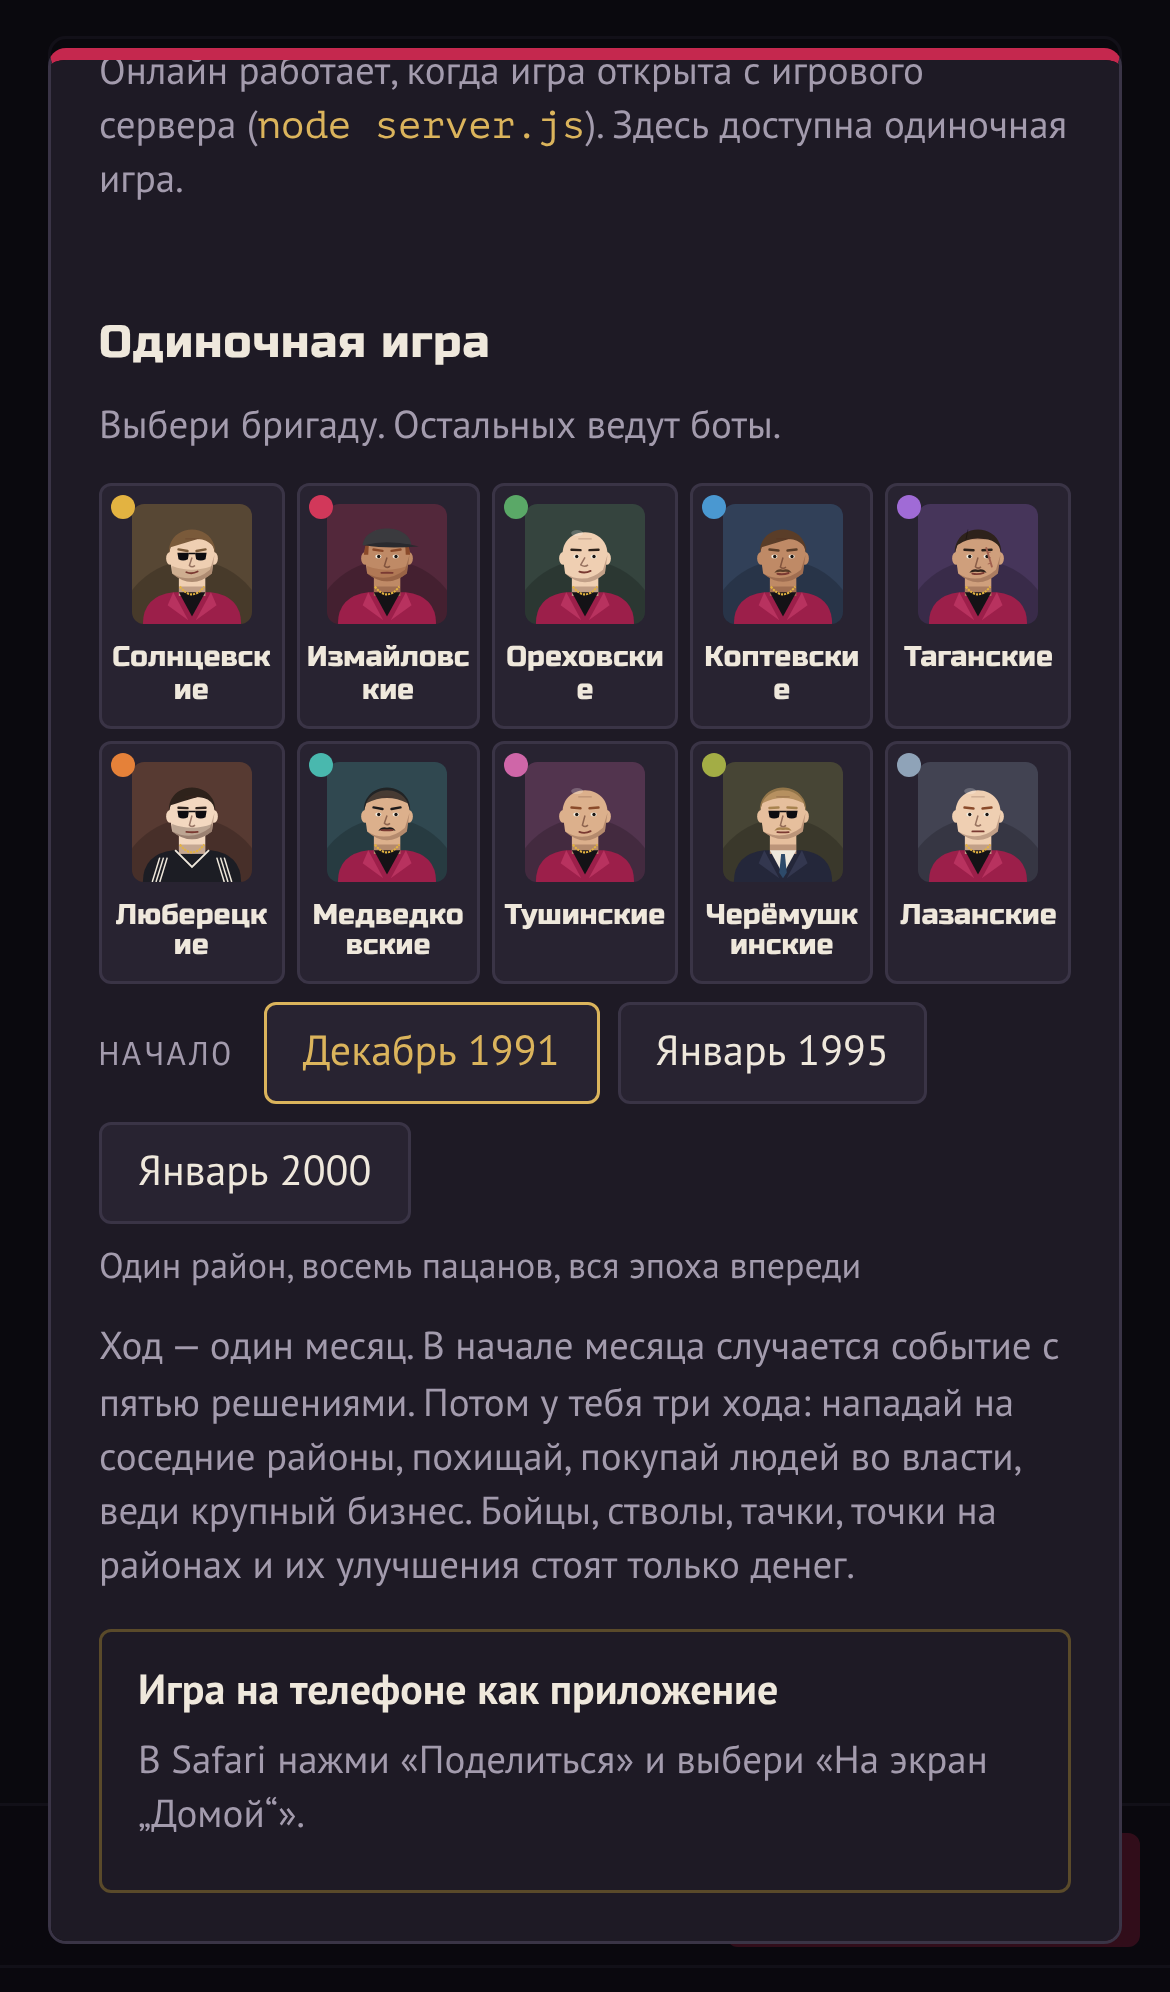
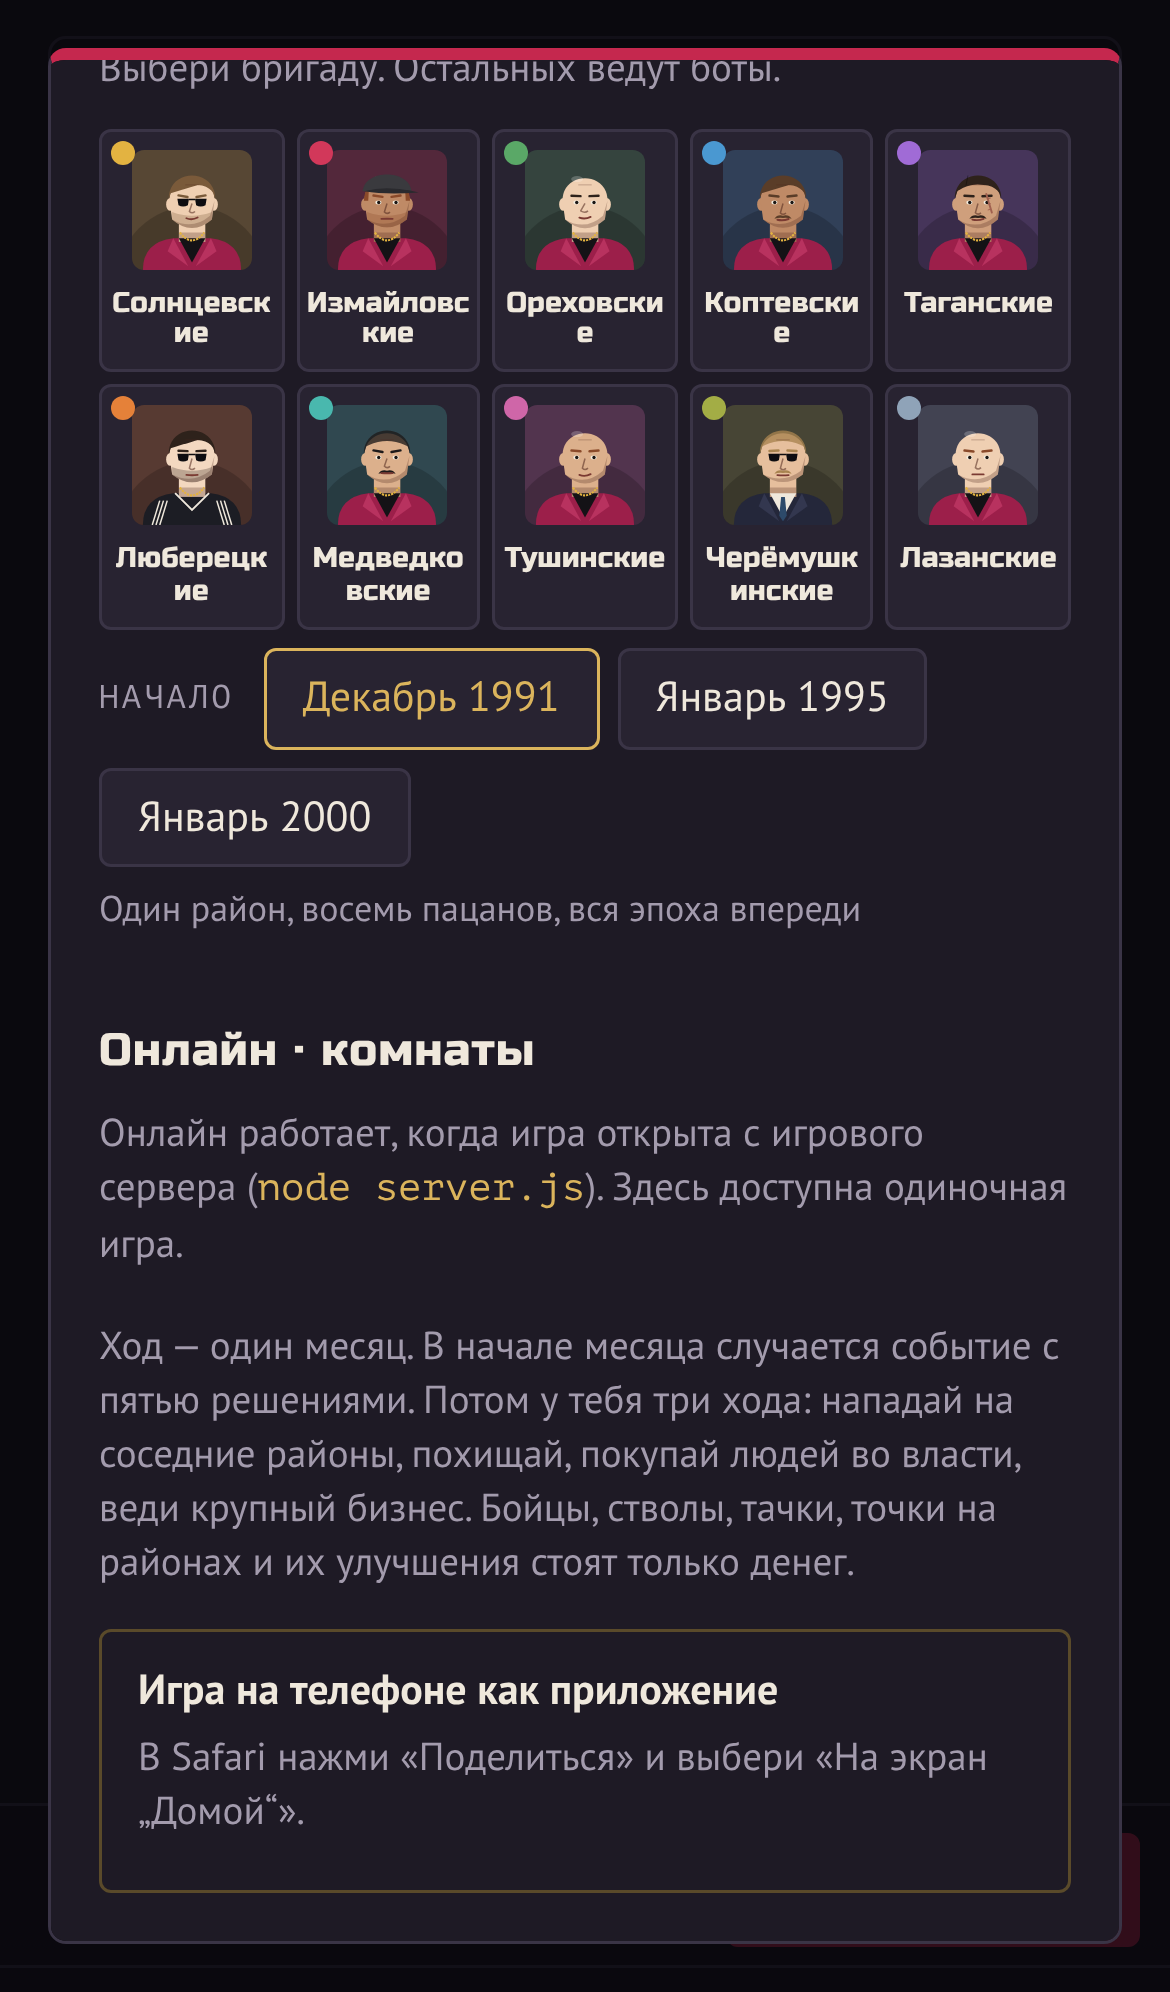
Ночная карта Москвы: огни города, Москва-река, Кремль, светящиеся границы округов с подписями, точки наших/спорных/вражеских районов, легенда; на старте онлайн и комнаты — после одиночной игры
Claude-Session: https://claude.ai/code/session_01VU3Wi5L5vmKTpxuVuK6v8i

diff --git a/js/ui.js b/js/ui.js
@@ -91,14 +91,27 @@
 
   // ---------- карта ----------
   const svg = $('#map');
+  // ночная карта: огни города внутри МКАД, Москва-река, Кремль, светящиеся границы округов
+  const GXY = (lon, lat) => [(lon - 37.30) * 0.563 * 2600, (55.93 - lat) * 2600];
+  const RIVER = [[37.30, 55.815], [37.345, 55.80], [37.385, 55.805], [37.41, 55.79], [37.40, 55.772], [37.43, 55.762], [37.47, 55.752], [37.505, 55.758], [37.535, 55.752], [37.555, 55.737], [37.555, 55.718], [37.575, 55.708], [37.60, 55.716], [37.604, 55.735], [37.617, 55.748], [37.64, 55.746], [37.658, 55.733], [37.665, 55.712], [37.685, 55.70], [37.69, 55.683], [37.67, 55.668], [37.70, 55.66], [37.735, 55.645], [37.77, 55.638], [37.81, 55.63], [37.86, 55.615]];
+  function cityLights() {
+    let x = 12345, out = ''; const rnd = () => { x = (x * 16807) % 2147483647; return x / 2147483647; };
+    const b = GEO.box;
+    for (let k = 0; k < 1400; k++) { const px = b[0] + rnd() * b[2], py = b[1] + rnd() * b[3], r = rnd(); out += '<circle cx="' + px.toFixed(1) + '" cy="' + py.toFixed(1) + '" r="' + (r < 0.85 ? 0.7 : 1.3) + '" fill="' + (r < 0.6 ? '#f3c97a' : r < 0.9 ? '#e8a35a' : '#fff3d6') + '" opacity="' + (0.15 + rnd() * 0.45).toFixed(2) + '"/>'; }
+    return out;
+  }
   function buildMap() {
     const pth = c => 'M' + c.map(p => p[0].toFixed(1) + ' ' + p[1].toFixed(1)).join('L') + 'Z';
-    let h = '<g id="cells">' + GEO.cells.map((c, i) => '<path class="cell" data-i="' + i + '" d="' + pth(c) + '"></path>').join('') + '</g><g id="okb">';
+    const kr = GXY(37.6175, 55.7515), riv = 'M' + RIVER.map(p => GXY(p[0], p[1]).map(v => v.toFixed(1)).join(' ')).join('L');
+    let h = '<defs><clipPath id="mkad"><path d="' + pth(GEO.hull) + '"/></clipPath><filter id="glow" x="-20%" y="-20%" width="140%" height="140%"><feGaussianBlur stdDeviation="3" result="b"/><feMerge><feMergeNode in="b"/><feMergeNode in="SourceGraphic"/></feMerge></filter>' +
+      '<radialGradient id="night" cx="50%" cy="45%" r="60%"><stop offset="0" stop-color="#2a2230"/><stop offset="1" stop-color="#0d0b10"/></radialGradient></defs>' +
+      '<path id="town" d="' + pth(GEO.hull) + '" fill="url(#night)"/>' +
+      '<g id="cells">' + GEO.cells.map((c, i) => '<path class="cell" data-i="' + i + '" d="' + pth(c) + '"></path>').join('') + '</g><g id="okb">';
     GEO.borders.forEach(b => { if (D.DISTRICTS[b.i].ok !== D.DISTRICTS[b.j].ok) h += '<line x1="' + b.a[0].toFixed(1) + '" y1="' + b.a[1].toFixed(1) + '" x2="' + b.b[0].toFixed(1) + '" y2="' + b.b[1].toFixed(1) + '"></line>'; });
-    h += '</g><path id="rim" d="' + pth(GEO.hull) + '"></path><g id="marks">';
+    h += '</g><g id="lights" clip-path="url(#mkad)">' + cityLights() + '</g><path id="river" clip-path="url(#mkad)" d="' + riv + '"/><path id="rim" d="' + pth(GEO.hull) + '"></path><g id="kremlin" transform="translate(' + kr[0].toFixed(1) + ' ' + kr[1].toFixed(1) + ')"><circle r="11" fill="#f0a73c" opacity=".22" filter="url(#glow)"/><path d="M-6 3h12v-5l-2 -1.5v-3l-1.5 -1v-4l-1 -2.5l-1 2.5v4l-1.5 1v3l-2 1.5z" fill="#f6c46a"/><path d="M0 -12.5l.6 1.6h1.6l-1.3 1 .5 1.6-1.4-1-1.4 1 .5-1.6-1.3-1h1.6z" fill="#ff5a4d"/></g><g id="dots"></g><g id="marks">';
     D.DISTRICTS.forEach((d, i) => { const c = GEO.centers[i]; if (d.ent) h += '<rect class="ent" data-m="' + i + '" x="' + (c[0] - 2.6).toFixed(1) + '" y="' + (c[1] - 10.5).toFixed(1) + '" width="5.2" height="5.2" transform="rotate(45 ' + c[0].toFixed(1) + ' ' + (c[1] - 7.9).toFixed(1) + ')"></rect>'; });
     h += '</g><g id="oklab">';
-    Object.keys(D.OKRUGS).forEach(ok => { const ids = E.okrugIds(ok), x = ids.reduce((s, i) => s + GEO.centers[i][0], 0) / ids.length, y = ids.reduce((s, i) => s + GEO.centers[i][1], 0) / ids.length; h += '<text x="' + x.toFixed(1) + '" y="' + y.toFixed(1) + '">' + D.OKRUGS[ok].short + '</text>'; });
+    Object.keys(D.OKRUGS).forEach(ok => { const ids = E.okrugIds(ok), x = ids.reduce((s, i) => s + GEO.centers[i][0], 0) / ids.length, y = ids.reduce((s, i) => s + GEO.centers[i][1], 0) / ids.length; const nm = D.OKRUGS[ok].name.replace(' округ', '').split('-'); h += '<text x="' + x.toFixed(1) + '" y="' + (y - (nm.length > 1 ? 6 : 0)).toFixed(1) + '">' + nm.map((t, k) => '<tspan x="' + x.toFixed(1) + '" dy="' + (k ? 13 : 0) + '">' + t + (k < nm.length - 1 ? '-' : '') + '</tspan>').join('') + '<tspan x="' + x.toFixed(1) + '" dy="13">АО</tspan></text>'; });
     h += '</g><g id="labels">';
     D.DISTRICTS.forEach((d, i) => { const c = GEO.centers[i], parts = d.name.length > 11 ? d.name.split(/[- ]/) : [d.name]; h += '<text x="' + c[0].toFixed(1) + '" y="' + (c[1] + 2 - (parts.length - 1) * 3).toFixed(1) + '">' + parts.map((t, k) => '<tspan x="' + c[0].toFixed(1) + '" dy="' + (k ? 6.4 : 0) + '">' + esc(t) + '</tspan>').join('') + '</text>'; });
     svg.innerHTML = h + '</g>';
@@ -147,6 +160,8 @@
       el.classList.toggle('watched', spectating && !!o && o === watchFid);
     });
     svg.querySelectorAll('.ent').forEach(el => el.classList.toggle('got', S.d[+el.dataset.m].ent));
+    let dots = ''; D.DISTRICTS.forEach((d, i) => { const o = S.d[i].o, k = o === me ? 'mine' : E.attackable(S, me, i) ? 'tgt' : o ? 'foe' : ''; if (!k) return; const c = GEO.centers[i]; dots += '<circle class="dot ' + k + '" cx="' + c[0].toFixed(1) + '" cy="' + c[1].toFixed(1) + '" r="' + (k === 'mine' ? 5 : 4) + '"/>'; });
+    const dg = svg.querySelector('#dots'); if (dg) dg.innerHTML = dots;
     const s = svg.querySelector('.cell.sel'); if (s) s.parentNode.appendChild(s);
   }
 
@@ -1285,11 +1300,11 @@
   function showStart() {
     const sv = load();
     let h = '<p class="eyebrow">Москва · декабрь 1991 — декабрь 2007</p><h1>Передел</h1><p class="lead">Страны больше нет. У тебя один район и восемь пацанов. Через шестнадцать лет криминал станет частью власти. Реши, будешь ли ты среди тех, кто дожил.</p>' + acctHTML() + diffHTML() + '<button class="btn ghost sm" data-a="records">Рекорды и достижения</button>';
-    h += '<div class="modes"><section><h3>Онлайн</h3><div id="online"><p class="muted">Ищу сервер…</p></div></section><section><h3>Одиночная игра</h3>';
+    h += '<div class="modes"><section><h3>Одиночная игра</h3>';
     if (sv) h += '<button class="btn primary wide" data-a="continue">Продолжить: ' + fd(sv.humans[0]).name + ', ' + E.date(sv.turn).label + '</button>';
     h += '<p class="muted">Выбери бригаду. Остальных ведут боты.</p><div class="factions f5">';
     D.FACTIONS.forEach(f => { const d = D.DISTRICTS.find(x => x.name === f.home); h += '<button class="fac" data-a="start" data-k="' + f.id + '"><span class="ava">' + A.bossFace(f) + '</span><i style="background:' + f.color + '"></i><b>' + f.name + '</b><span>' + f.home + ', ' + D.OKRUGS[d.ok].short + '</span><small>' + esc(f.perk) + '</small></button>'; });
-    h += '</div>' + scenHTML() + '</section></div><p class="muted">Ход — один месяц. В начале месяца случается событие с пятью решениями. Потом у тебя три хода: нападай на соседние районы, похищай, покупай людей во власти, веди крупный бизнес. Бойцы, стволы, тачки, точки на районах и их улучшения стоят только денег.</p>' + installHTML();
+    h += '</div>' + scenHTML() + '</section><section><h3>Онлайн · комнаты</h3><div id="online"><p class="muted">Ищу сервер…</p></div></section></div><p class="muted">Ход — один месяц. В начале месяца случается событие с пятью решениями. Потом у тебя три хода: нападай на соседние районы, похищай, покупай людей во власти, веди крупный бизнес. Бойцы, стволы, тачки, точки на районах и их улучшения стоят только денег.</p>' + installHTML();
     openModal(h, 'start', 'start');
     Net.rooms().then(list => {
       const box = $('#online'); if (!box || modalKey !== 'start') return;

diff --git a/index.html b/index.html
@@ -2,7 +2,7 @@
 <html lang="ru">
 <head>
 <meta charset="utf-8">
-<meta name="app-ver" content="b595c58e2f">
+<meta name="app-ver" content="ebdc09e9a5">
 <meta name="viewport" content="width=device-width, initial-scale=1, viewport-fit=cover">
 <title>Передел</title>
 <link rel="manifest" href="manifest.webmanifest">
@@ -14,7 +14,7 @@
 <meta name="apple-mobile-web-app-title" content="Передел">
 <script>if (/tgWebApp/.test(location.hash + location.search)) document.write('<script src="https://telegram.org/js/telegram-web-app.js"><\/script>');</script>
 <link rel="stylesheet" href="https://fonts.googleapis.com/css2?family=PT+Mono&family=PT+Sans:wght@400;700&family=Russo+One&display=swap">
-<link rel="stylesheet" href="css/style.css?v=b595c58e2f">
+<link rel="stylesheet" href="css/style.css?v=ebdc09e9a5">
 <style>body{margin:0}[hidden]{display:none!important}</style>
 </head>
 <body>
@@ -40,7 +40,7 @@
         <button id="mylist" class="btn sm" data-a="dlist">Мои районы</button>
         <button id="maphelp" data-a="tip" data-k="map" title="Как брать районы" aria-label="Как брать районы">?</button>
         <div id="maptip" hidden></div>
-        <p id="legend"><span><i class="lg mine"></i>твои</span><span><i class="lg target"></i>можно напасть</span><span><i class="lg ent"></i>предприятие</span></p>
+        <p id="legend"><b>Карта Москвы</b><span><i class="lg gdot"></i>наши</span><span><i class="lg odot"></i>можно брать</span><span><i class="lg rdot"></i>враги</span><span><i class="lg ent"></i>предприятие</span></p>
       </div>
       <div id="page" hidden></div>
     </section>
@@ -50,15 +50,15 @@
 </div>
 <div id="modal" hidden></div>
 <div id="toast" hidden role="status"></div>
-<script src="js/data.js?v=b595c58e2f"></script>
-<script src="js/events.js?v=b595c58e2f"></script>
-<script src="js/geo.js?v=b595c58e2f"></script>
-<script src="js/engine.js?v=b595c58e2f"></script>
-<script src="js/art.js?v=b595c58e2f"></script>
-<script src="js/net.js?v=b595c58e2f"></script>
-<script src="js/music.js?v=b595c58e2f"></script>
-<script src="js/sfx.js?v=b595c58e2f"></script>
-<script src="js/ui.js?v=b595c58e2f"></script>
+<script src="js/data.js?v=ebdc09e9a5"></script>
+<script src="js/events.js?v=ebdc09e9a5"></script>
+<script src="js/geo.js?v=ebdc09e9a5"></script>
+<script src="js/engine.js?v=ebdc09e9a5"></script>
+<script src="js/art.js?v=ebdc09e9a5"></script>
+<script src="js/net.js?v=ebdc09e9a5"></script>
+<script src="js/music.js?v=ebdc09e9a5"></script>
+<script src="js/sfx.js?v=ebdc09e9a5"></script>
+<script src="js/ui.js?v=ebdc09e9a5"></script>
 <script>if ('serviceWorker' in navigator && location.protocol === 'https:') navigator.serviceWorker.register('sw.js');</script>
 </body>
 </html>

diff --git a/sw.js b/sw.js
@@ -1,5 +1,5 @@
 /* Сервис-воркер «Передела»: собирается build.js. Игра работает без сети, обновления подтягиваются при следующем запуске. */
-const CACHE = 'peredel-3db53d16e1';
+const CACHE = 'peredel-95f91e2f29';
 const FILES = ["./","index.html","css/style.css","manifest.webmanifest","js/data.js","js/events.js","js/geo.js","js/engine.js","js/art.js","js/net.js","js/music.js","js/sfx.js","js/ui.js","img/arm-aks.jpg","img/arm-obrez.jpg","img/arm-pm.jpg","img/arm-rpg.jpg","img/arm-svd.jpg","img/b-bordel.jpg","img/b-bordel2.jpg","img/b-boutique.jpg","img/b-boutique2.jpg","img/b-boutique3.jpg","img/b-casino.jpg","img/b-casino3.jpg","img/b-chop.jpg","img/b-clinic.jpg","img/b-clinic2.jpg","img/b-clinic3.jpg","img/b-club.jpg","img/b-club2.jpg","img/b-dorm.jpg","img/b-dorm2.jpg","img/b-exchange.jpg","img/b-exchange3.jpg","img/b-factory.jpg","img/b-factory2.jpg","img/b-flat.jpg","img/b-flat2.jpg","img/b-flat3.jpg","img/b-fuel.jpg","img/b-fuel2.jpg","img/b-gunshop.jpg","img/b-gunshop3.jpg","img/b-gym.jpg","img/b-gym2.jpg","img/b-gym3.jpg","img/b-hotel.jpg","img/b-hotel2.jpg","img/b-hotel3.jpg","img/b-kiosk.jpg","img/b-kiosk2.jpg","img/b-kiosk3.jpg","img/b-land.jpg","img/b-land3.jpg","img/b-market.jpg","img/b-market2.jpg","img/b-market3.jpg","img/b-port.jpg","img/b-port2.jpg","img/b-port3.jpg","img/b-prem.jpg","img/b-prem3.jpg","img/b-rest.jpg","img/b-ritual.jpg","img/b-ritual2.jpg","img/b-ritual3.jpg","img/b-scrap.jpg","img/b-scrap2.jpg","img/b-scrap3.jpg","img/b-service.jpg","img/b-service2.jpg","img/b-service3.jpg","img/b-tir.jpg","img/b-tir2.jpg","img/b-tir3.jpg","img/b-video.jpg","img/b-vokzal.jpg","img/b-vokzal2.jpg","img/b-vokzal3.jpg","img/b-warehouse.jpg","img/b-warehouse2.jpg","img/b-warehouse3.jpg","img/car-audi.jpg","img/car-bmw.jpg","img/car-cayenne.jpg","img/car-e65.jpg","img/car-escalade.jpg","img/car-gelik.jpg","img/car-jeep.jpg","img/car-lc100.jpg","img/car-merc.jpg","img/car-nine.jpg","img/car-rr.jpg","img/car-uaz.jpg","img/car-w220.jpg","img/car-x5.jpg","img/d-avtoz.jpg","img/d-bank.jpg","img/d-cars.jpg","img/d-club.jpg","img/d-coal.jpg","img/d-drugs.jpg","img/d-gold.jpg","img/d-gsm.jpg","img/d-guns.jpg","img/d-kidnap.jpg","img/d-mall.jpg","img/d-media.jpg","img/d-metal.jpg","img/d-oil.jpg","img/d-olymp.jpg","img/d-seaport.jpg","img/d-slots.jpg","img/d-tower.jpg","img/d-vodka.jpg","img/vest.jpg","icons/apple-180.png","icons/icon-192.png","icons/icon-512.png","icons/maskable-512.png"];
 self.addEventListener('install', e => { e.waitUntil(caches.open(CACHE).then(c => c.addAll(FILES)).then(() => self.skipWaiting())); });
 self.addEventListener('activate', e => { e.waitUntil(caches.keys().then(ks => Promise.all(ks.filter(k => k !== CACHE).map(k => caches.delete(k)))).then(() => self.clients.claim())); });

diff --git a/css/style.css b/css/style.css
@@ -840,3 +840,25 @@ ul.plain { padding-left: 18px; margin: 0 0 12px; } ul.plain li { margin: 0 0 4px
 /* личный кабинет на старте */
 .acct { display: flex; align-items: center; justify-content: space-between; gap: 10px; flex-wrap: wrap; padding: 10px 12px; margin: 10px 0; border: 1px solid var(--line); border-radius: 6px; background: #1b1822; font-size: 14px; }
 .acct small { color: var(--dim); } .acct b { color: var(--gold); }
+
+/* ночная карта Москвы */
+#stage:has(#mapview:not([hidden])) { background: #09080c; }
+#town { stroke: none; }
+#river { fill: none; stroke: #2f5a85; stroke-width: 6; stroke-linecap: round; stroke-linejoin: round; opacity: .75; pointer-events: none; }
+#lights { pointer-events: none; }
+.cell { fill: #1a1620; fill-opacity: .35; stroke: #3a3242; stroke-width: .7; }
+.cell.foe { fill-opacity: .32; }
+.cell.mine { fill-opacity: .45; }
+.cell:hover { fill-opacity: .7; }
+.cell.target { stroke: #f0a73c; stroke-width: 1.2; stroke-dasharray: 3 2.5; }
+.cell.sel { stroke: #fff3d6; stroke-width: 2.4; fill-opacity: .7; }
+#okb line { stroke: #f0a73c; stroke-width: 2.4; opacity: .95; filter: url(#glow); }
+#rim { stroke: #f0a73c; stroke-width: 3; opacity: 1; filter: url(#glow); }
+#oklab text { font: 400 15px var(--display); fill: #fff; opacity: .78; paint-order: stroke; stroke: #0d0b10; stroke-width: 3px; }
+#kremlin, #dots { pointer-events: none; }
+.dot { stroke: #0d0b10; stroke-width: .8; }
+.dot.mine { fill: #57d97a; filter: url(#glow); } .dot.tgt { fill: #f0a73c; } .dot.foe { fill: #ee5a4f; opacity: .85; }
+#map:not(.zoomed) .dot.foe { opacity: .55; }
+#legend { top: 10px; bottom: auto; left: 12px; right: 60px; align-items: center; color: var(--fg); background: rgba(13, 11, 16, .72); padding: 6px 10px; border-radius: 6px; width: max-content; max-width: calc(100% - 80px); }
+#legend b { font: 400 16px var(--display); margin-right: 6px; }
+.lg.gdot, .lg.odot, .lg.rdot { border-radius: 50%; width: 10px; height: 10px; } .lg.gdot { background: #57d97a; box-shadow: 0 0 6px #57d97a; } .lg.odot { background: #f0a73c; } .lg.rdot { background: #ee5a4f; }

diff --git a/src/body.html b/src/body.html
@@ -20,7 +20,7 @@
         <button id="mylist" class="btn sm" data-a="dlist">Мои районы</button>
         <button id="maphelp" data-a="tip" data-k="map" title="Как брать районы" aria-label="Как брать районы">?</button>
         <div id="maptip" hidden></div>
-        <p id="legend"><span><i class="lg mine"></i>твои</span><span><i class="lg target"></i>можно напасть</span><span><i class="lg ent"></i>предприятие</span></p>
+        <p id="legend"><b>Карта Москвы</b><span><i class="lg gdot"></i>наши</span><span><i class="lg odot"></i>можно брать</span><span><i class="lg rdot"></i>враги</span><span><i class="lg ent"></i>предприятие</span></p>
       </div>
       <div id="page" hidden></div>
     </section>
